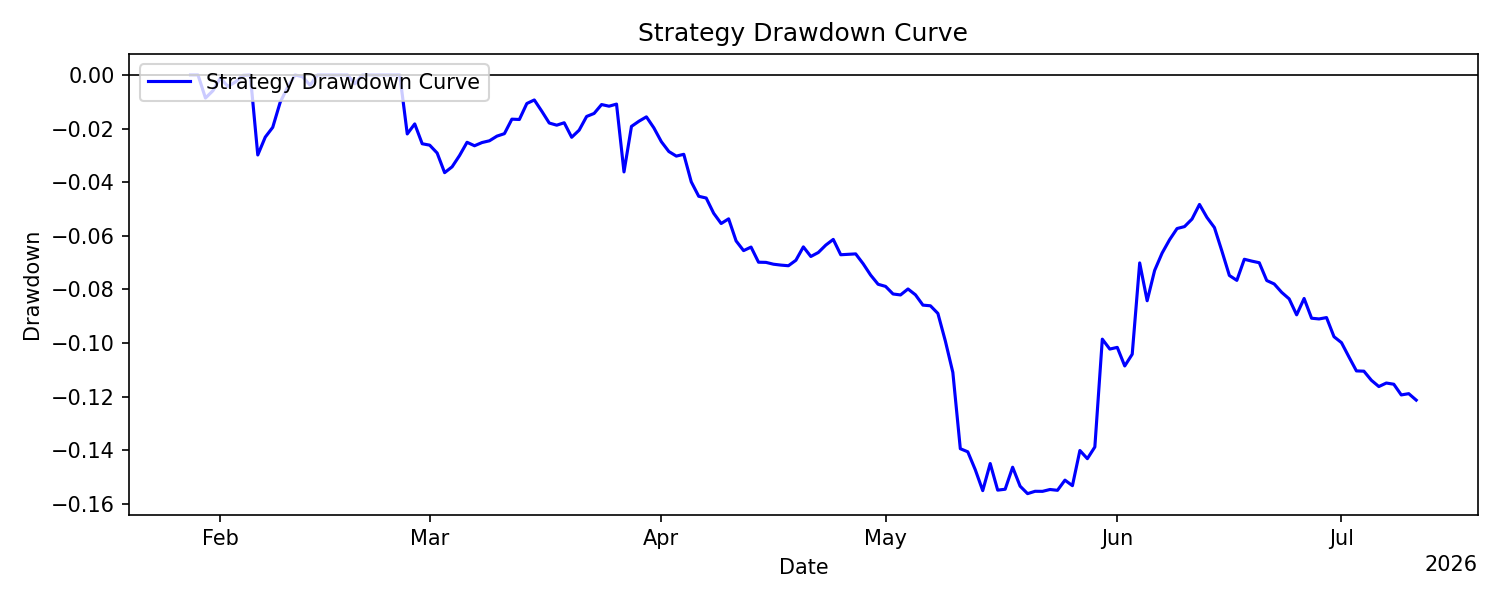
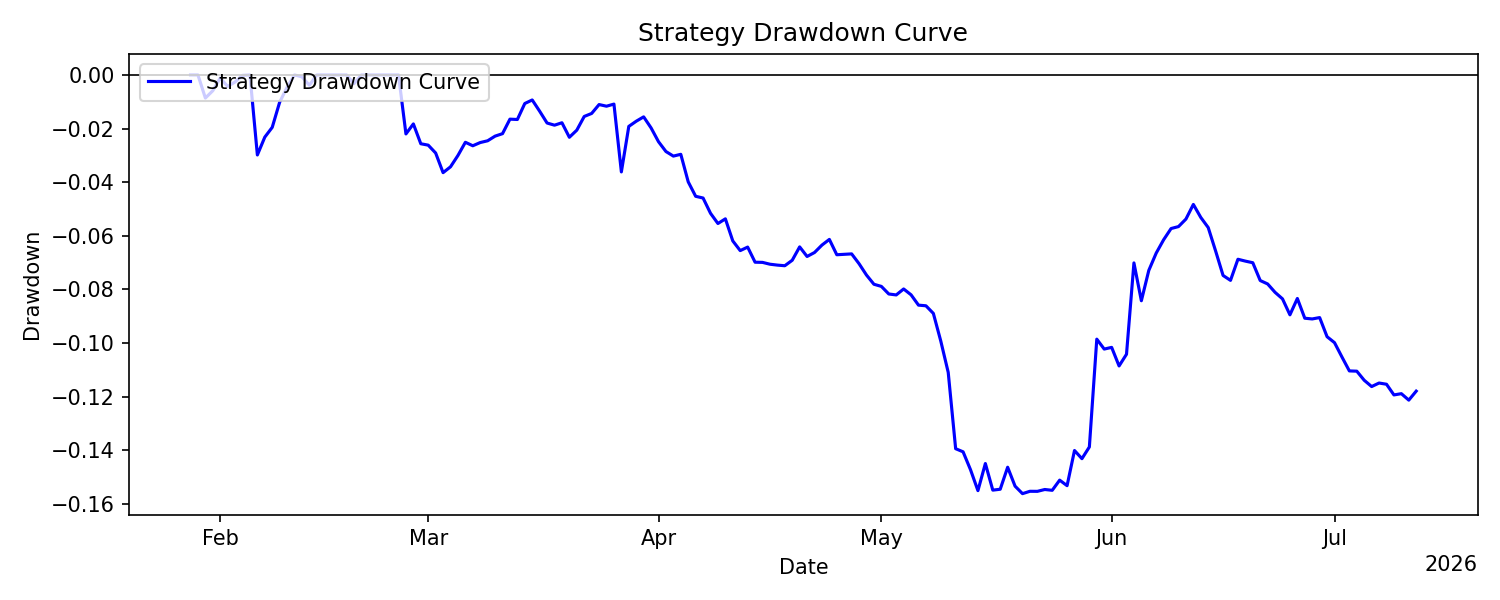
Update reports: 2026-07-12 00:00:00 UTC

diff --git a/README.md b/README.md
@@ -24,26 +24,26 @@ All results are live and reported net of transaction costs and slippage.
 <!-- METRICS_START -->
 | metric                       |        values |
 |:-----------------------------|--------------:|
-| Number of Observations       | 165           |
-| Mean Daily Return            |  -0.000397861 |
-| Daily Volatility             |   0.00874509  |
-| Mean Annualized Return       |  -0.145219    |
-| Annualized Volatility        |   0.167075    |
+| Number of Observations       | 166           |
+| Mean Daily Return            |  -0.000372473 |
+| Daily Volatility             |   0.00872468  |
+| Mean Annualized Return       |  -0.135953    |
+| Annualized Volatility        |   0.166685    |
 | Maximum Drawdown             |  -0.156146    |
-| Max Drawdown Duration (Days) | 136           |
-| Sharpe                       |  -0.869187    |
-| Sortino                      |  -1.19825     |
-| Calmar                       |  -0.930022    |
-| CAGR                         |  -0.147073    |
-| Skewness                     |   0.700421    |
-| Excess Kurtosis              |   8.4005      |
-| Win Rate                     |   0.466667    |
-| Profit Factor                |   0.864758    |
-| VaR 1%                       |  -0.0279436   |
+| Max Drawdown Duration (Days) | 137           |
+| Sharpe                       |  -0.815627    |
+| Sortino                      |  -1.12179     |
+| Calmar                       |  -0.870676    |
+| CAGR                         |  -0.139074    |
+| Skewness                     |   0.692876    |
+| Excess Kurtosis              |   8.4278      |
+| Win Rate                     |   0.46988     |
+| Profit Factor                |   0.872621    |
+| VaR 1%                       |  -0.0279139   |
 | CVaR 1%                      |  -0.030925    |
-| VaR 5%                       |  -0.0111828   |
+| VaR 5%                       |  -0.0111456   |
 | CVaR 5%                      |  -0.0208176   |
-| Correlation with BTC         |  -0.0118519   |
+| Correlation with BTC         |  -0.0128561   |
 <!-- METRICS_END -->
 
 ## Sharpe Statistics
@@ -55,14 +55,14 @@ All results are live and reported net of transaction costs and slippage.
 | metric                     |   values |
 |:---------------------------|---------:|
 | alpha                      |   0.05   |
-| t-statistic                |  -0.5844 |
-| p-value                    |   0.5598 |
-| Daily Sharpe Ratio         |  -0.0455 |
-| Annualized Sharpe Ratio    |  -0.8692 |
-| Sharpe Standard Error      |   1.5194 |
-| C.I. Lower Bound           |  -3.8471 |
-| C.I. Upper Bound           |   2.1087 |
-| Bootstrap C.I. Lower Bound |  -4.0961 |
-| Bootstrap C.I. Upper Bound |   2.6172 |
+| t-statistic                |  -0.55   |
+| p-value                    |   0.583  |
+| Daily Sharpe Ratio         |  -0.0427 |
+| Annualized Sharpe Ratio    |  -0.8156 |
+| Sharpe Standard Error      |   1.5126 |
+| C.I. Lower Bound           |  -3.7803 |
+| C.I. Upper Bound           |   2.1491 |
+| Bootstrap C.I. Lower Bound |  -4.1351 |
+| Bootstrap C.I. Upper Bound |   2.8502 |
 <!-- SHARPE_END -->
 
